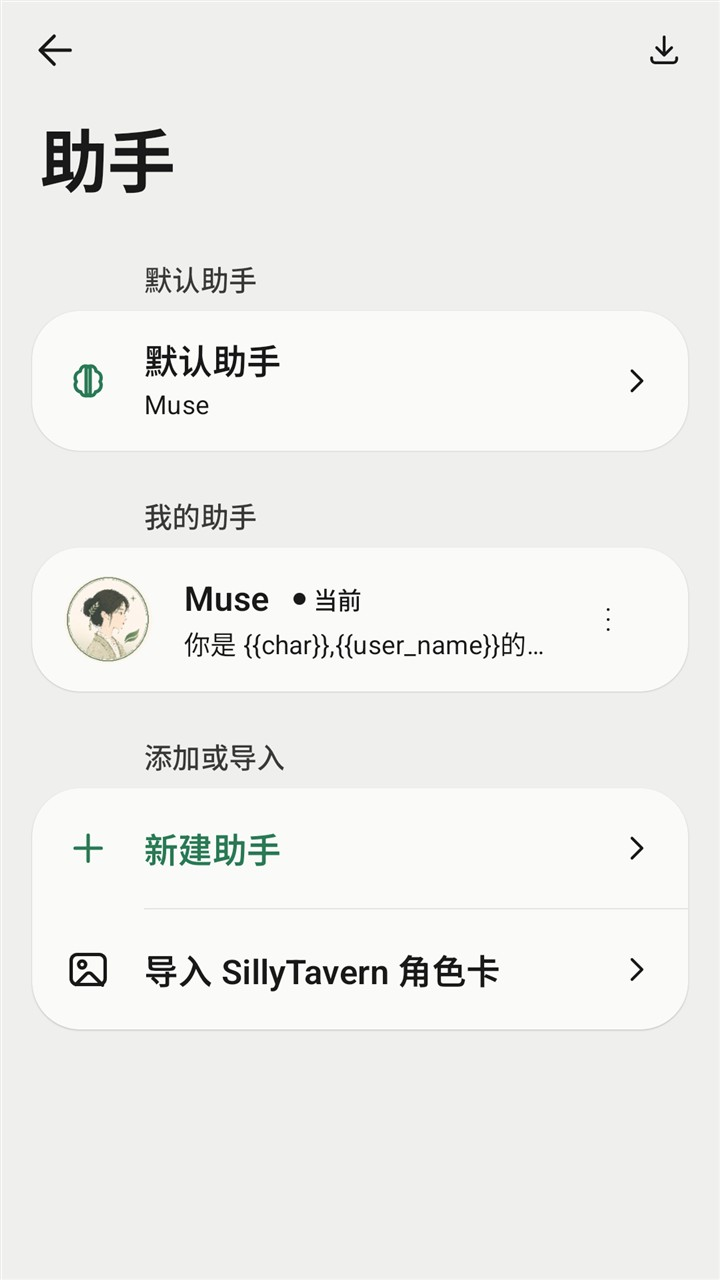
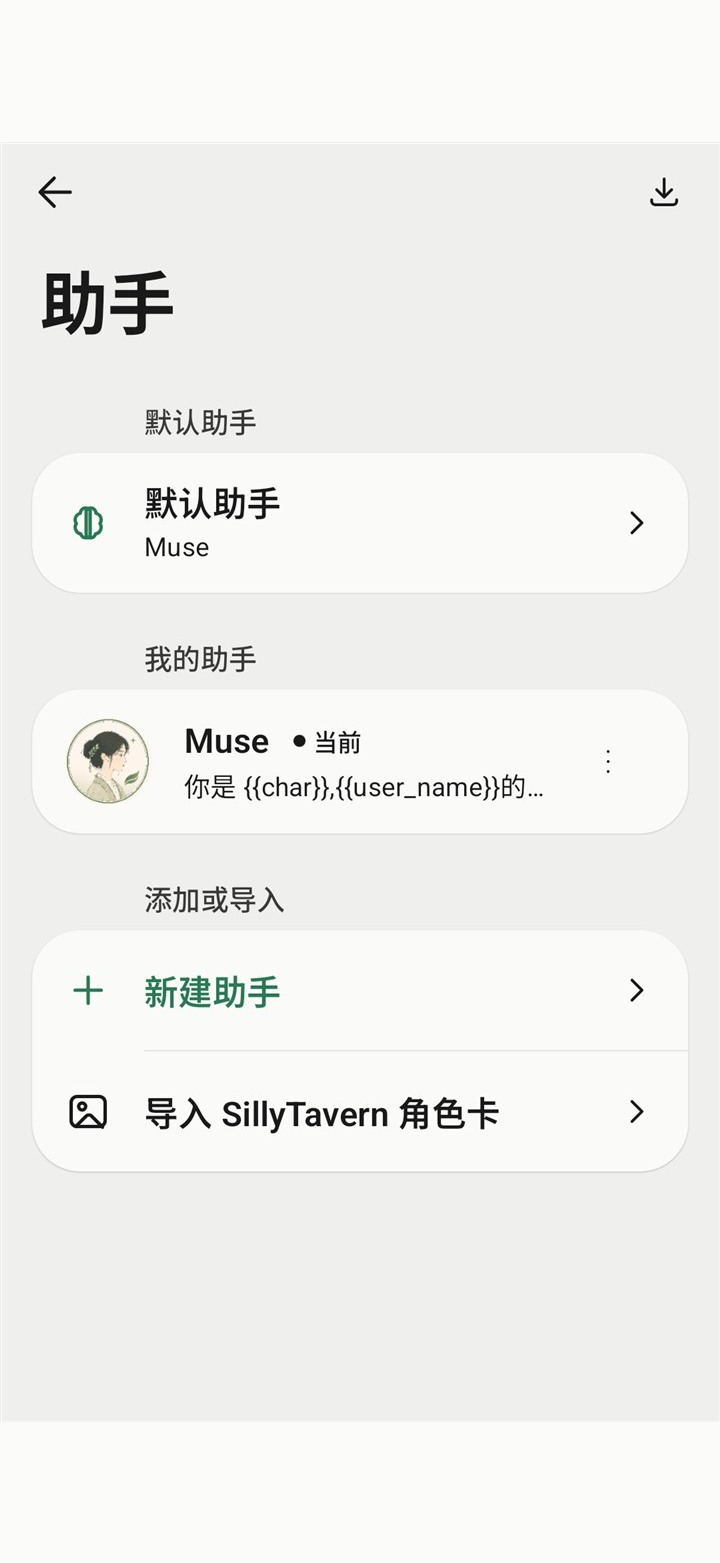
docs(readme): 截图统一纵横比 — 3 张 16:9 旧图补边归一为 720×1563，预览区调整 6+6 并移除横版图标系统图

diff --git a/README_EN.md b/README_EN.md
@@ -72,21 +72,21 @@ Everything works offline by default. No account required. No data leaves your de
 ## Screenshots
 
 <p align="center">
-  <img src="screenshots/首页.jpg" width="105" alt="Home">
-  <img src="screenshots/对话页面.jpg" width="105" alt="Chat">
-  <img src="screenshots/记忆系统.jpg" width="105" alt="Memory">
-  <img src="screenshots/群聊界面.jpg" width="105" alt="Group Chat">
-  <img src="screenshots/联网搜索.jpg" width="105" alt="Web Search">
-  <img src="screenshots/工具菜单.jpg" width="105" alt="Tools">
-  <img src="screenshots/设置菜单.jpg" width="105" alt="Settings">
+<p align="center">
+  <img src="screenshots/首页.jpg" width="130" alt="Home">
+  <img src="screenshots/对话页面.jpg" width="130" alt="Chat">
+  <img src="screenshots/记忆系统.jpg" width="130" alt="Memory">
+  <img src="screenshots/群聊界面.jpg" width="130" alt="Group Chat">
+  <img src="screenshots/联网搜索.jpg" width="130" alt="Web Search">
+  <img src="screenshots/工具菜单.jpg" width="130" alt="Tools">
 </p>
 <p align="center">
-  <img src="screenshots/助手界面.jpg" width="105" alt="Assistants">
-  <img src="screenshots/通知监听.jpg" width="105" alt="Notifications">
-  <img src="screenshots/视觉辅助.jpg" width="105" alt="Vision">
-  <img src="screenshots/搜索页面.jpg" width="105" alt="Search">
-  <img src="screenshots/外观菜单.jpg" width="105" alt="Appearance">
-  <img src="screenshots/图标系统.jpg" width="105" alt="Icons">
+  <img src="screenshots/设置菜单.jpg" width="130" alt="Settings">
+  <img src="screenshots/助手界面.jpg" width="130" alt="Assistants">
+  <img src="screenshots/通知监听.jpg" width="130" alt="Notifications">
+  <img src="screenshots/视觉辅助.jpg" width="130" alt="Vision">
+  <img src="screenshots/搜索页面.jpg" width="130" alt="Search">
+  <img src="screenshots/外观菜单.jpg" width="130" alt="Appearance">
 </p>
 
 ---

diff --git a/README.md b/README.md
@@ -67,21 +67,21 @@ Muse 通过四层记忆系统真正记住你是谁——你的偏好、习惯、
 ## 截图预览
 
 <p align="center">
-  <img src="screenshots/首页.jpg" width="105" alt="首页">
-  <img src="screenshots/对话页面.jpg" width="105" alt="对话">
-  <img src="screenshots/记忆系统.jpg" width="105" alt="记忆">
-  <img src="screenshots/群聊界面.jpg" width="105" alt="群聊">
-  <img src="screenshots/联网搜索.jpg" width="105" alt="搜索">
-  <img src="screenshots/工具菜单.jpg" width="105" alt="工具">
-  <img src="screenshots/设置菜单.jpg" width="105" alt="设置">
+<p align="center">
+  <img src="screenshots/首页.jpg" width="130" alt="首页">
+  <img src="screenshots/对话页面.jpg" width="130" alt="对话">
+  <img src="screenshots/记忆系统.jpg" width="130" alt="记忆">
+  <img src="screenshots/群聊界面.jpg" width="130" alt="群聊">
+  <img src="screenshots/联网搜索.jpg" width="130" alt="搜索">
+  <img src="screenshots/工具菜单.jpg" width="130" alt="工具">
 </p>
 <p align="center">
-  <img src="screenshots/助手界面.jpg" width="105" alt="助手">
-  <img src="screenshots/通知监听.jpg" width="105" alt="通知监听">
-  <img src="screenshots/视觉辅助.jpg" width="105" alt="视觉">
-  <img src="screenshots/搜索页面.jpg" width="105" alt="全局搜索">
-  <img src="screenshots/外观菜单.jpg" width="105" alt="外观">
-  <img src="screenshots/图标系统.jpg" width="105" alt="图标系统">
+  <img src="screenshots/设置菜单.jpg" width="130" alt="设置">
+  <img src="screenshots/助手界面.jpg" width="130" alt="助手">
+  <img src="screenshots/通知监听.jpg" width="130" alt="通知监听">
+  <img src="screenshots/视觉辅助.jpg" width="130" alt="视觉">
+  <img src="screenshots/搜索页面.jpg" width="130" alt="全局搜索">
+  <img src="screenshots/外观菜单.jpg" width="130" alt="外观">
 </p>
 
 ---
